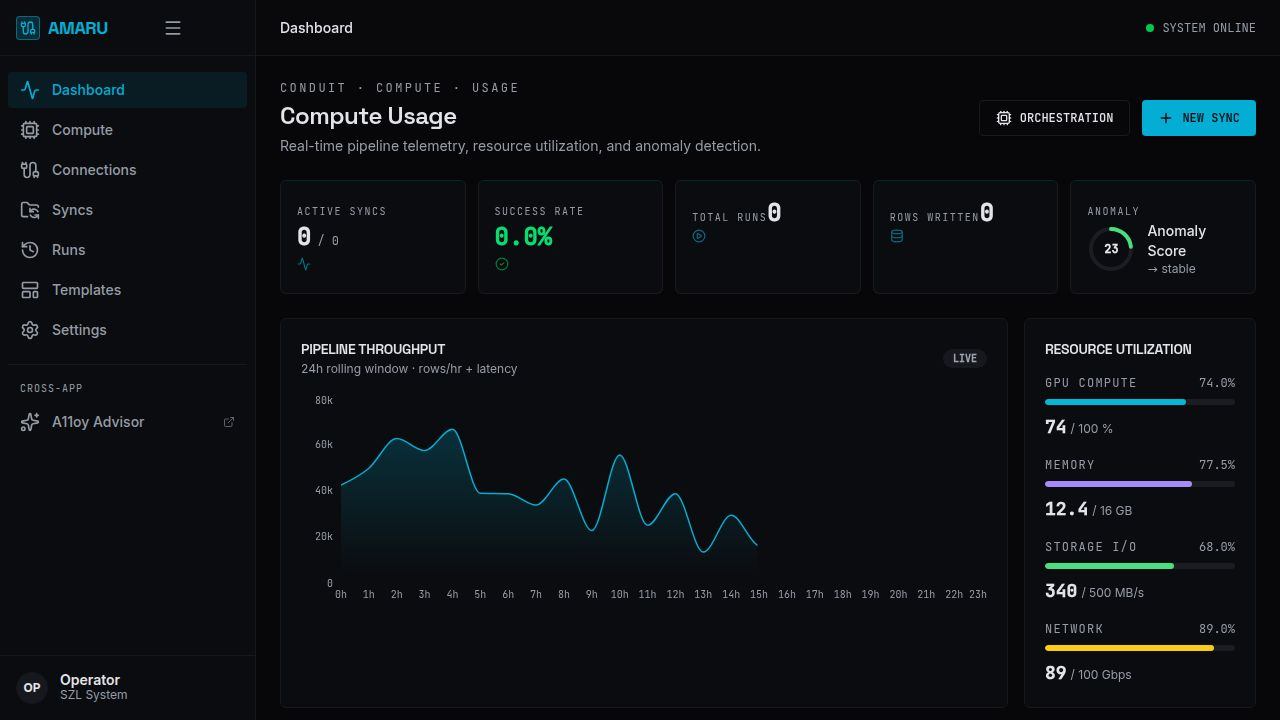
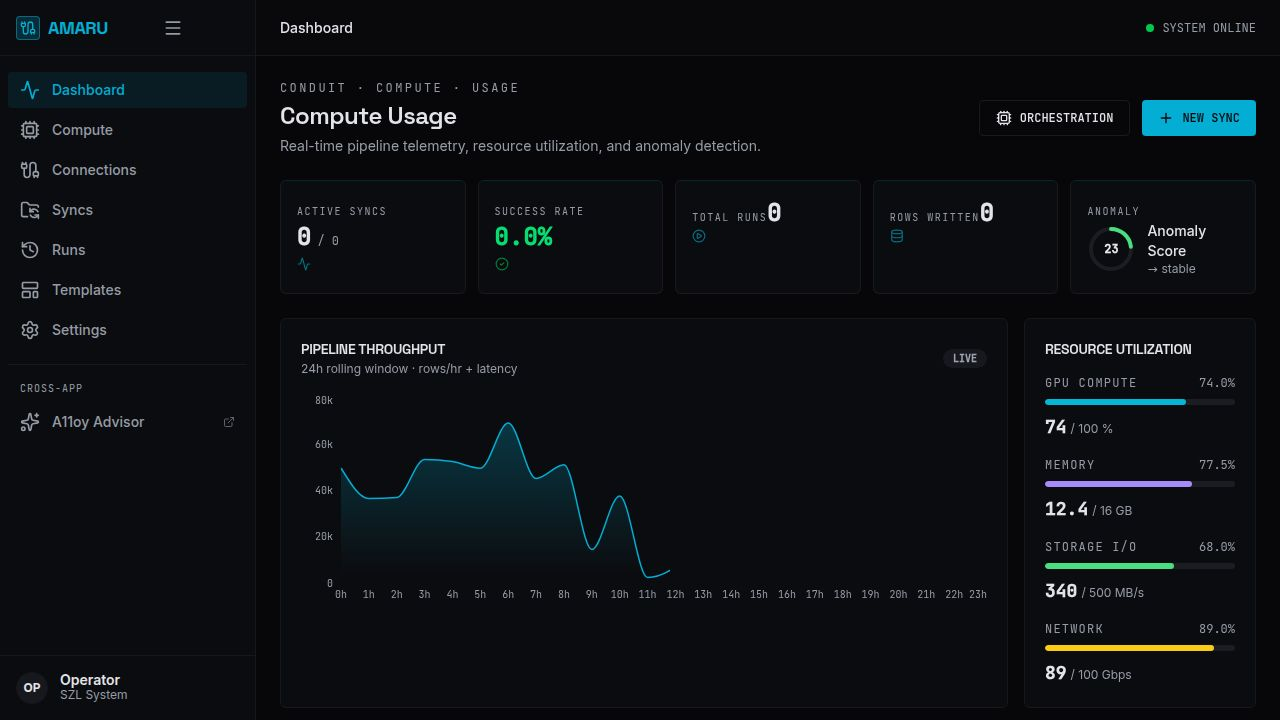
Add screenshots and an index for the investor dossier
Add new screenshot files and update the INDEX.md file in the dossier/screenshots directory to include images of various application surfaces and their corresponding details.

Replit-Commit-Author: Agent
Replit-Commit-Session-Id: 2f57e5a8-e015-45df-ac0a-59f9dc50add2
Replit-Commit-Checkpoint-Type: full_checkpoint
Replit-Commit-Event-Id: efcb93fc-9413-4f5f-b676-af466463bab8
Replit-Commit-Screenshot-Url: https://storage.googleapis.com/screenshot-production-us-central1/5b0811fe-3c02-42f1-86f4-1effe6ec70df/2f57e5a8-e015-45df-ac0a-59f9dc50add2/mJxabBS
Replit-Helium-Checkpoint-Created: true

Changed region(s): [[0.25, 0.5806, 0.5938, 0.7639]]

diff --git a/dossier/screenshots/INDEX.md b/dossier/screenshots/INDEX.md
@@ -1,0 +1,32 @@
+# SZL Holdings — Screenshot Index
+
+Captured 2026-05-03 from the running Replit environment. All surfaces
+served via the path-routed proxy at the times below; every shot is from
+the live application, not a mock.
+
+| File | Surface | Path | Notes |
+|---|---|---|---|
+| `a11oy_home.jpg` | A11oy | `/a11oy/` | Orchestration layer landing page |
+| `a11oy_chat.jpg` | A11oy | `/a11oy/chat` | Live Claude-backed advisor (`v4.2.0-rc.1`, "System nominal", LIVE indicator) |
+| `amaru_home.jpg` | Amaru | `/conduit/` | Compute-usage dashboard, anomaly score, throughput chart |
+| `amaru_settings.jpg` | Amaru | `/conduit/settings` | Operator settings — notifications, vault policy, MFA, density, accent, webhooks |
+| `sentra_home.jpg` | Sentra | `/sentra/` | Cyber resilience surface, 80+ modules, "Orchestrated by a11oy" badge |
+| `terra_home.jpg` | Terra | `/terra/` | Real estate intelligence surface, NYC and NYS coverage line |
+| `vessels_home.jpg` | Vessels | `/vessels/` | Maritime intelligence, "214 vessels tracked" live fleet panel |
+| `counsel_home.jpg` | Counsel | `/counsel/` | Legal matter command, informational-only banner is correct |
+| `carlota-jo_home.jpg` | Carlota Jo | `/carlota-jo/` | Concierge advisory surface, service disciplines panel |
+
+## Reading order for the Tuesday meeting
+
+1. `a11oy_home.jpg` — establish A11oy as the orchestration layer
+2. `a11oy_chat.jpg` — show the live Claude advisor with starter prompts
+   that walk through the platform primitives
+3. `amaru_home.jpg` + `amaru_settings.jpg` — show one vertical end to end
+   (dashboard + operational settings actually wired up, not "Coming soon")
+4. `sentra_home.jpg`, `terra_home.jpg`, `vessels_home.jpg`,
+   `counsel_home.jpg`, `carlota-jo_home.jpg` — sweep through the other
+   five domain surfaces in 30 seconds to show breadth
+
+All seven surfaces share the SZL header chrome and the "Orchestrated by
+a11oy" lineage so the operator can see they are one platform, not seven
+unrelated apps.
